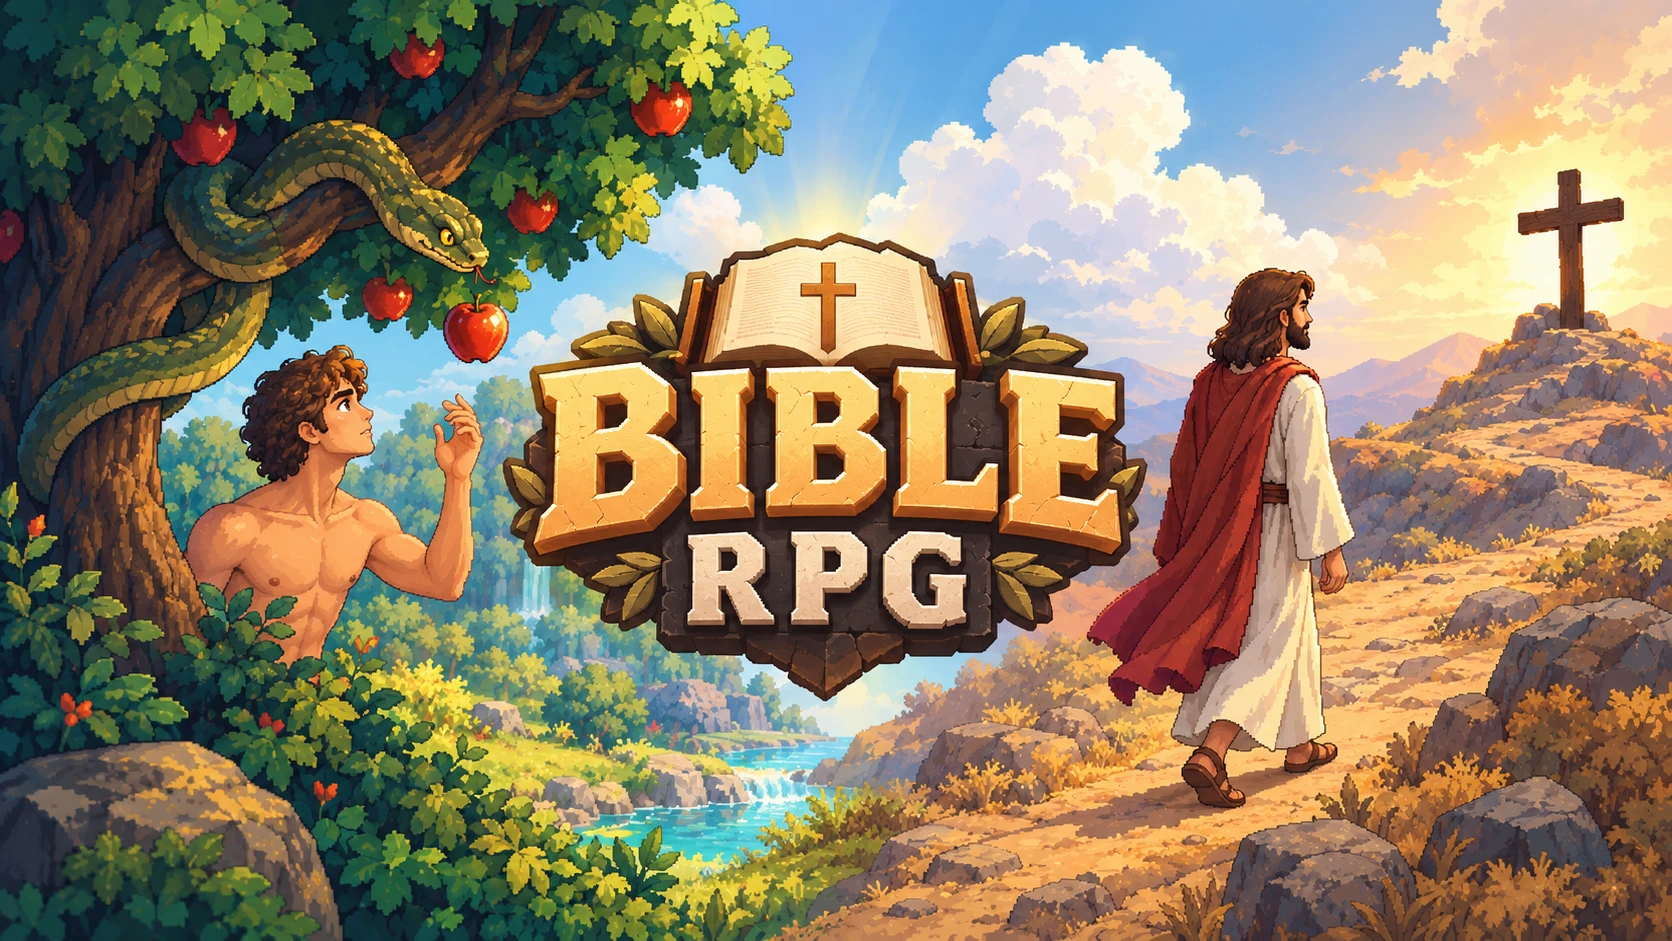
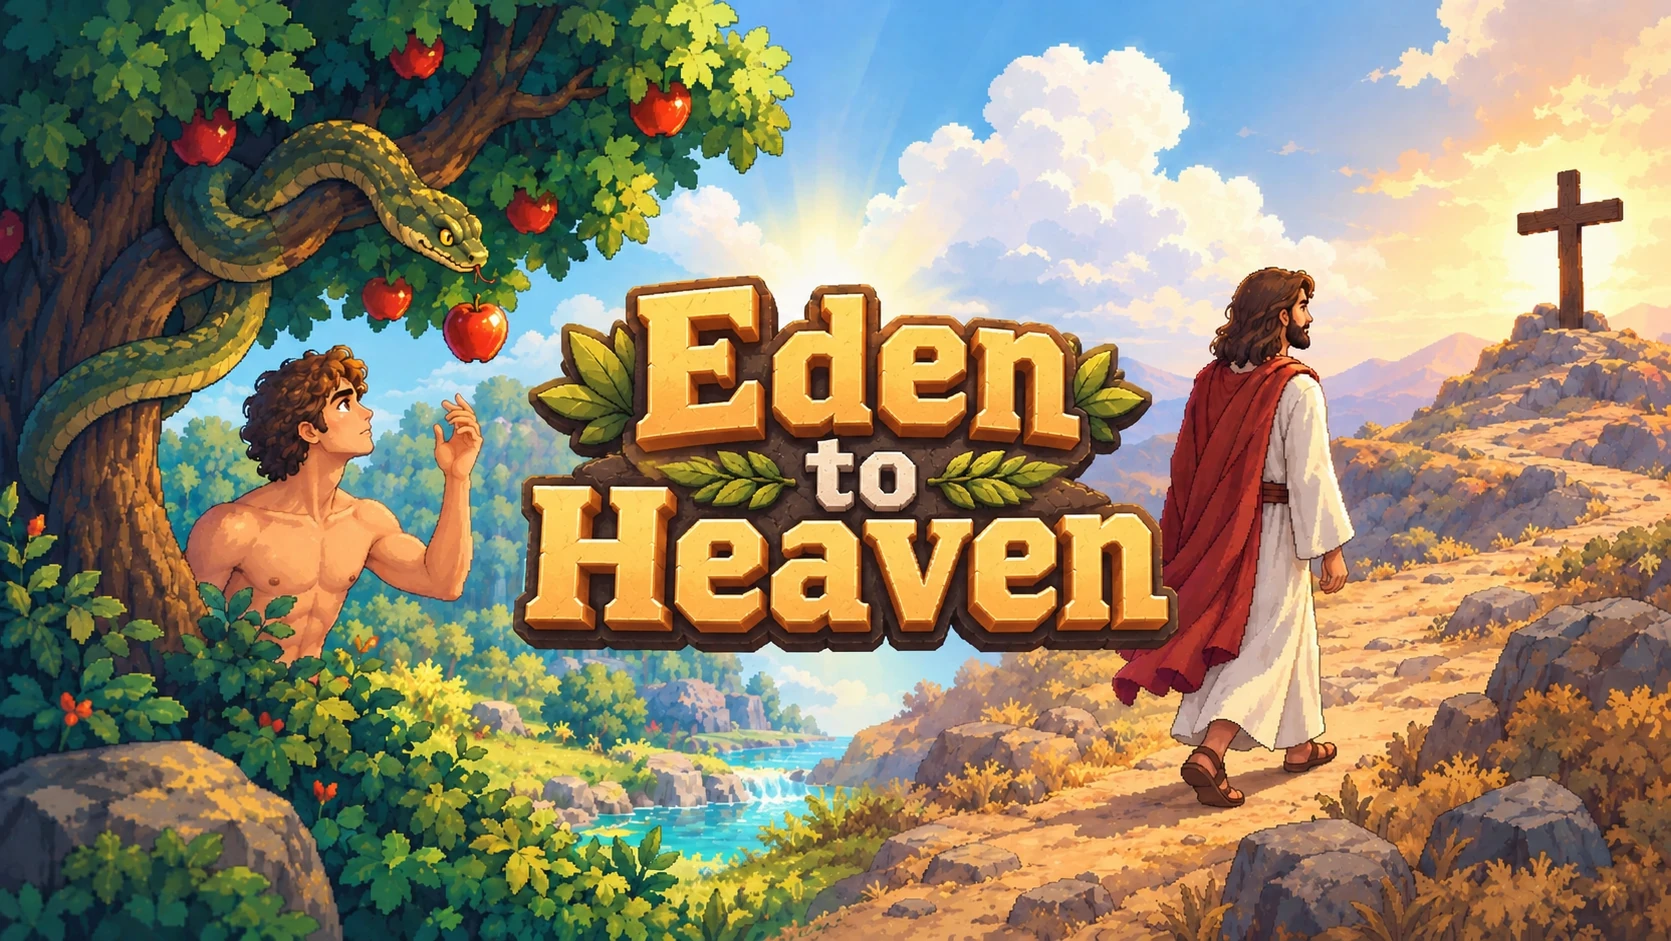
Main menu: new home background; dev tools (Voices, Game Dev Debug switch that opens every chapter) shown on the preview and in development, never in the app; Cain and Abel locked behind Eden again

diff --git a/src/core/dev.ts b/src/core/dev.ts
@@ -1,17 +1,38 @@
 import { storage } from './storage';
 
 /**
- * The maintainer's own tools (the Voices button on the main menu, opening the
- * voice and sound library: src/ui/DevLibrary.ts), hidden from players: a
- * browser shows them after the game has been opened once with `#dev` at the
- * end of its address, until it is opened with `#nodev`. Sounds chosen there
- * play in the game only while dev mode is on.
+ * The maintainer's own tools on the main menu (the Voices button, opening the
+ * voice and sound library in src/ui/DevLibrary.ts, and the "Game Dev Debug"
+ * switch), hidden from players. They show in development: `bun run dev`, the
+ * Cloudflare preview (*.pages.dev) and any browser that opened the game once
+ * with `#dev` at the end of its address. `#nodev` hides them in that browser
+ * (even on the preview) and `#dev` brings them back. The published app (the
+ * Capacitor shell, on localhost) never shows them. Sounds chosen in the
+ * library play in the game only while dev mode is on.
  */
 const KEY = 'bible-rpg.dev';
+const DEBUG_KEY = 'bible-rpg.dev.debug';
+
+function previewHost(): boolean {
+  return typeof location !== 'undefined' && location.hostname.endsWith('.pages.dev');
+}
 
 export function devMode(): boolean {
   const hash = typeof location !== 'undefined' ? location.hash : '';
   if (hash === '#dev') storage.write(KEY, true);
-  else if (hash === '#nodev') storage.remove(KEY);
-  return storage.read<boolean>(KEY) === true;
+  else if (hash === '#nodev') storage.write(KEY, false);
+  const saved = storage.read<boolean>(KEY);
+  if (saved !== null) return saved === true;
+  return import.meta.env.DEV || previewHost();
+}
+
+/** "Game Dev Debug": every playable chapter opens on the story map, unlocked
+ * or not. Only while dev mode is on; the save itself is left untouched. */
+export function debugUnlockAll(): boolean {
+  return devMode() && storage.read<boolean>(DEBUG_KEY) === true;
+}
+
+export function setDebugUnlockAll(on: boolean): void {
+  if (on) storage.write(DEBUG_KEY, true);
+  else storage.remove(DEBUG_KEY);
 }

diff --git a/src/ui/screens.ts b/src/ui/screens.ts
@@ -17,8 +17,14 @@ export interface MenuActions {
   fun(): void;
   moreGames(): void;
   settings(): void;
-  /** the maintainer's voice and sound library; no button when absent (src/core/dev.ts) */
-  library?: () => void;
+  /** the maintainer's tools (src/core/dev.ts); absent for players */
+  dev?: {
+    /** opens the voice and sound library */
+    library(): void;
+    /** "Game Dev Debug": every chapter playable on the story map */
+    debug: boolean;
+    setDebug(on: boolean): void;
+  };
 }
 
 export function mainMenuScreen(a: MenuActions): HTMLElement {
@@ -38,12 +44,33 @@ export function mainMenuScreen(a: MenuActions): HTMLElement {
       h('button', { class: 'btn', onclick: a.settings }, t('menu.settings')),
     ),
     h('div', { class: 'menu-footer' }, t('app.studio')),
-    a.library ? h('button', { class: 'btn small dev-voices', onclick: a.library }, t('dev.voices')) : null,
+    a.dev ? devTools(a.dev) : null,
   );
   wireButtonSounds(el);
   arrowNav(el.querySelector('nav')!);
   requestAnimationFrame(() => play.focus({ preventScroll: true }));
   return el;
+}
+
+/** Top left of the main menu, in development only: Voices and Game Dev Debug. */
+function devTools(d: NonNullable<MenuActions['dev']>): HTMLElement {
+  const debug = h(
+    'button',
+    {
+      class: 'btn small dev-debug',
+      role: 'switch',
+      'aria-checked': String(d.debug),
+      title: t('dev.debugHelp'),
+      onclick: () => {
+        const on = debug.getAttribute('aria-checked') !== 'true';
+        debug.setAttribute('aria-checked', String(on));
+        d.setDebug(on);
+      },
+    },
+    h('span', { class: 'dev-debug-knob', 'aria-hidden': 'true' }),
+    t('dev.debug'),
+  );
+  return h('div', { class: 'dev-tools' }, h('button', { class: 'btn small', onclick: d.library }, t('dev.voices')), debug);
 }
 
 function pageHeader(title: string, onBack: () => void, extra?: HTMLElement): HTMLElement {

diff --git a/src/core/save.ts b/src/core/save.ts
@@ -1,4 +1,5 @@
 import { storage } from './storage';
+import { debugUnlockAll } from './dev';
 
 /**
  * Persistent progress. Progress is committed when a mission is completed:
@@ -31,9 +32,9 @@ export interface SaveData {
 
 const KEY = 'bible-rpg.save.v1';
 
-/** Chapters open from the start. Cain and Abel is open too while it is being
- * built, so the maintainer can play it without finishing Eden first. */
-const OPEN = ['eden', 'cain-abel'];
+/** Chapters open from the start. (To try a locked chapter, turn on "Game Dev
+ * Debug" on the main menu: src/core/dev.ts.) */
+const OPEN = ['eden'];
 
 function fresh(): SaveData {
   return { version: 1, chapters: {}, unlocked: [...OPEN], updatedAt: Date.now() };
@@ -55,6 +56,9 @@ class SaveStore {
     } else if (isValid(raw)) {
       this.data = raw;
       for (const id of OPEN) if (!this.data.unlocked.includes(id)) this.data.unlocked.push(id);
+      // Cain and Abel was open to everyone while it was being built; it opens
+      // again by finishing Eden (or with Game Dev Debug).
+      if (!this.data.chapters.eden?.completed) this.data.unlocked = this.data.unlocked.filter((id) => id !== 'cain-abel');
     } else {
       // Keep the unreadable save aside instead of silently erasing it.
       storage.write(`${KEY}.unreadable-${Date.now()}`, raw);
@@ -76,7 +80,7 @@ class SaveStore {
   }
 
   isUnlocked(id: string): boolean {
-    return this.data.unlocked.includes(id);
+    return debugUnlockAll() || this.data.unlocked.includes(id);
   }
 
   startChapter(id: string, firstMission: string, activeCharacter: string): ChapterProgress {

diff --git a/src/styles/main.css b/src/styles/main.css
@@ -1951,11 +1951,46 @@ select:focus-visible {
 }
 
 /* the maintainer's button to the voice and sound library (src/core/dev.ts) */
-.dev-voices {
+.dev-tools {
   position: absolute;
   left: calc(12px + var(--safe-l));
   top: calc(12px + var(--safe-t));
   z-index: 2;
+  display: flex;
+  gap: 8px;
+}
+
+/* "Game Dev Debug" switch: a small knob that lights up when on */
+.dev-debug {
+  display: inline-flex;
+  align-items: center;
+  gap: 6px;
+}
+.dev-debug-knob {
+  position: relative;
+  flex: none;
+  width: 22px;
+  height: 12px;
+  border-radius: 6px;
+  background: rgba(240, 229, 204, 0.25);
+}
+.dev-debug-knob::after {
+  content: '';
+  position: absolute;
+  top: 2px;
+  left: 2px;
+  width: 8px;
+  height: 8px;
+  border-radius: 50%;
+  background: rgba(240, 229, 204, 0.8);
+  transition: left 0.15s;
+}
+.dev-debug[aria-checked='true'] .dev-debug-knob {
+  background: #6fbf5a;
+}
+.dev-debug[aria-checked='true'] .dev-debug-knob::after {
+  left: 12px;
+  background: #fff;
 }
 
 /* the maintainer's voice and sound library (src/ui/DevLibrary.ts) */

diff --git a/src/ui/App.ts b/src/ui/App.ts
@@ -16,7 +16,7 @@ import { h } from './dom';
 import { HUD } from './HUD';
 import { openNamingPuzzle } from './NamingPuzzle';
 import { confirmDialog, openOverlay, wireButtonSounds, type OverlayHandle } from './overlays';
-import { devMode } from '../core/dev';
+import { devMode, debugUnlockAll, setDebugUnlockAll } from '../core/dev';
 import { devLibraryScreen } from './DevLibrary';
 import { funScreen, mainMenuScreen, moreGamesScreen, storyMapScreen } from './screens';
 import { openSettings } from './SettingsPanel';
@@ -109,7 +109,9 @@ export class App {
         fun: () => this.showFun(),
         moreGames: () => this.setScreen(moreGamesScreen(() => this.showMenu())),
         settings: () => openSettings(),
-        library: devMode() ? () => this.setScreen(devLibraryScreen(() => this.showMenu())) : undefined,
+        dev: devMode()
+          ? { library: () => this.setScreen(devLibraryScreen(() => this.showMenu())), debug: debugUnlockAll(), setDebug: setDebugUnlockAll }
+          : undefined,
       }),
     );
   }
